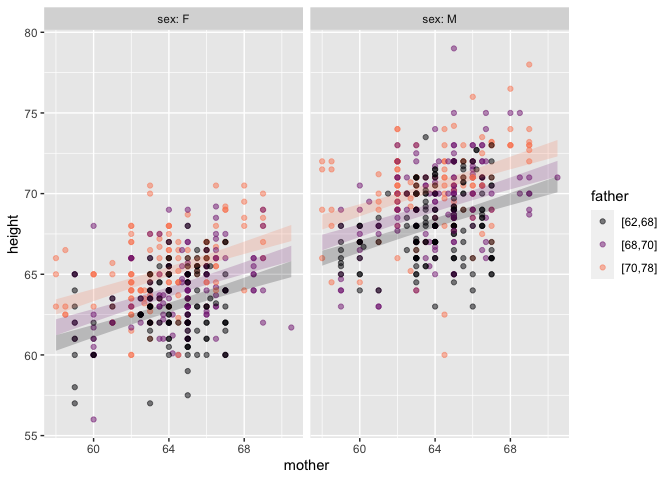
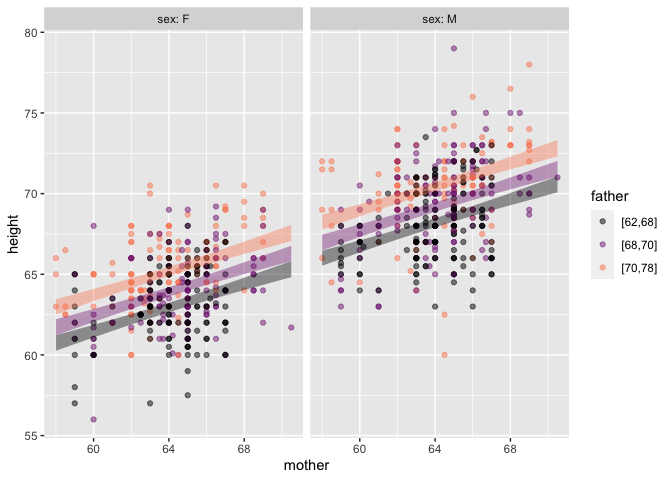
1. Fixed pointplot bug in showing model for y ~ 1
2. Revised README.Rmd to feature simple examples as suggested by Nick.

Changed region(s): [[0.4688, 0.2812, 0.8438, 0.5625], [0.0625, 0.4688, 0.4375, 0.7188]]

diff --git a/README.md b/README.md
@@ -71,46 +71,114 @@ Vignettes provide an instructor-level tutorial introduction to `{LST}`.
 The student-facing introduction is the *Lessons in Statistical Thinking*
 textbook.
 
-## Quick introduction
+## Statistics for data science
+
+Every instructor of introductory statistics is familiar with textbooks
+that devote separate chapters to each of a half-dozen basic tests:
+means, differences in means, proportions, differences in proportions,
+and simple regression. It’s been known for a century that these topics
+invoke the same statistical concepts. Moreover, they are merely
+precursors to the essential multivariable modeling techniques used in
+mainstream data-science tasks such as dealing with confounding.
+
+To illustrate how `{LST}` supports teaching such topics in a unified and
+streamlined way, consider to datasets provided by the `{mosaicData}`
+package: `Galton`, which contains the original data used by Francis
+Galton in the 1880s to study the heritability of genetic traits,
+specifically, human height; and `Whickham` results from a 20-year
+follow-up survey to study smoking and health.
+
+Start by installing `{LST}` as described above, then loading it into the
+R session:
 
 ``` r
 library(LST)
 ```
 
-From the start of the course, students make data graphics designed to
-support modeling. The `pointplot()` function provides access to powerful
-graphics intended to develop statistical reasoning abilities but is very
-easy to use. For instance, using Francis Galton’s data from the 1880s,
-let’s look at a (fully-grown) child’s height as a function of his or her
-parents height. (This example moves faster than we do with students!)
-Relationships are clear when the data are annotated with a model.
+In the examples that follow, we will use the `{LST}` function
+`pointplot()` which handles both numerical and categorical variables
+using one syntax. Here’s a graphic for looking at the difference between
+two means.
 
 ``` r
-mosaicData::Galton |>
-  pointplot(height ~ mother + father + sex, annot = "model")
+Galton |> pointplot(height ~ sex)
 ```
 
-<img src="man/figures/README-README6cfsz6-1.png" width="100%" />
+<img src="man/figures/README-unnamed-chunk-3-1.png" width="100%" />
+
+Point plots can be easily annotated with models. To illustrate the
+difference between the two means, add a model annotation:
+
+``` r
+Galton |> pointplot(height ~ sex, annot = "model")
+```
+
+<img src="man/figures/README-unnamed-chunk-5-1.png" width="100%" />
+
+Other `pointplot()` annotations are `violin` and `bw`.
+
+In *Lessons*, models are always graphed in the context of the underlying
+data and shown as confidence intervals.
+
+The same graphics and modeling conventions apply to categorical
+variables:
+
+``` r
+Whickham |> pointplot(outcome ~ smoker, annot = "model")
+```
+
+<img src="man/figures/README-unnamed-chunk-7-1.png" width="100%" />
+
+Simple regression works in the same way:
+
+``` r
+Galton |> pointplot(height ~ mother, annot = "model")
+```
+
+<img src="man/figures/README-unnamed-chunk-8-1.png" width="100%" />
+
+``` r
+Whickham |> pointplot(outcome ~ age, annot = "model")
+```
+
+<img src="man/figures/README-unnamed-chunk-8-2.png" width="100%" />
+
+The syntax extends naturally to handle the inclusion of covariates. For
+example, the simple calculation of difference between two proportions is
+misleading; `age`, not smoking status, plays the primary role in
+explaning mortality.
+
+``` r
+Whickham |> pointplot(outcome ~ age + smoker, annot = "model")
+```
+
+<img src="man/figures/README-unnamed-chunk-9-1.png" width="100%" />
+
+NOTE: To highlight statistical inference, we have been working with an
+n=200 sub-sample of Galton:
+
+``` r
+Galton <- Galton |> sample(n=100, .by = sex)
+```
 
 Quantitative modeling has the same syntax, but rather than rely on the
 default R reports for models, `{LST}` offers concise summaries.
 
 ``` r
-mosaicData::Galton |> 
-  model_train(height ~ mother + father + sex) |>
-  conf_interval()
-#> # A tibble: 4 × 4
-#>   term         .lwr  .coef   .upr
-#>   <chr>       <dbl>  <dbl>  <dbl>
-#> 1 (Intercept) 9.95  15.3   20.7  
-#> 2 mother      0.260  0.321  0.383
-#> 3 father      0.349  0.406  0.463
-#> 4 sexM        4.94   5.23   5.51
+Whickham |> model_train(outcome ~ age + smoker) |> conf_interval()
+#> Waiting for profiling to be done...
+#> # A tibble: 3 × 4
+#>   term          .lwr  .coef   .upr
+#>   <chr>        <dbl>  <dbl>  <dbl>
+#> 1 (Intercept) -8.50  -7.60  -6.77 
+#> 2 age          0.110  0.124  0.138
+#> 3 smokerYes   -0.124  0.205  0.537
 ```
 
-To develop an appreciation of the importance of covariates, we can turn
-to data-generating simulations where we know the rules behind the data
-and can check whether modeling reveals them faithfully.
+To help students develop an deeper appreciation of the importance of
+covariates, we can turn to data-generating simulations where we know the
+rules behind the data and can check whether modeling reveals them
+faithfully.
 
 ``` r
 print(sim_08)
@@ -122,7 +190,7 @@ print(sim_08)
 dag_draw(sim_08)
 ```
 
-<img src="man/figures/README-unnamed-chunk-2-1.png" width="100%" />
+<img src="man/figures/README-unnamed-chunk-11-1.png" width="100%" />
 
 From the rules, we can see that `y` increases directly with `x`, the
 coefficient being 1. A simple model gets this wrong:
@@ -135,8 +203,8 @@ sim_08 |>
 #> # A tibble: 2 × 4
 #>   term         .lwr .coef  .upr
 #>   <chr>       <dbl> <dbl> <dbl>
-#> 1 (Intercept)  2.74  2.98  3.22
-#> 2 x            1.30  1.45  1.60
+#> 1 (Intercept)  2.75  3.01  3.27
+#> 2 x            1.14  1.32  1.51
 ```
 
 I’ll leave it as an exercise to the reader to see what happens when `c`
@@ -149,28 +217,32 @@ function of the sample size `n` and averaging over 100 trials.
 
 ``` r
 sim_08 |> 
-  sample(n = n) |>
+  sample(n = sample_size) |>
   model_train(y ~ x) |>
   conf_interval() |>
-  trials(times = 2, n = c(100, 400, 1600)) |> 
+  trials(times = 2, sample_size = c(100, 400, 1600, 6400, 25600)) |> 
   filter(term == "x") |> 
   mutate(width = .upr - .lwr)
-#>   .trial    n term     .lwr    .coef     .upr      width
-#> 1      1  100    x 1.521538 1.717093 1.912649 0.39111092
-#> 2      2  100    x 1.234374 1.417474 1.600574 0.36620068
-#> 3      1  400    x 1.390188 1.478836 1.567485 0.17729708
-#> 4      2  400    x 1.519035 1.603670 1.688305 0.16926959
-#> 5      1 1600    x 1.430024 1.472944 1.515865 0.08584056
-#> 6      2 1600    x 1.436323 1.478510 1.520697 0.08437371
+#>    .trial sample_size term     .lwr    .coef     .upr      width
+#> 1       1         100    x 1.372233 1.560350 1.748467 0.37623423
+#> 2       2         100    x 1.332790 1.490733 1.648677 0.31588668
+#> 3       1         400    x 1.421812 1.505607 1.589403 0.16759077
+#> 4       2         400    x 1.499239 1.580337 1.661436 0.16219628
+#> 5       1        1600    x 1.424356 1.466122 1.507888 0.08353176
+#> 6       2        1600    x 1.436348 1.477919 1.519491 0.08314316
+#> 7       1        6400    x 1.474246 1.494887 1.515529 0.04128310
+#> 8       2        6400    x 1.487190 1.508327 1.529465 0.04227480
+#> 9       1       25600    x 1.495289 1.505822 1.516355 0.02106636
+#> 10      2       25600    x 1.498624 1.509280 1.519937 0.02131267
 ```
 
 I’ve used only two trials to show the output of `trials()`, but increase
 it to, say, `times = 100` and finish off the wrangling with the
-`{dplyr}` function `summarize(mean(width), .by = n)`.
+`{dplyr}` function `summarize(mean(width), .by = sample_size)`.
 
-    #>       n mean(width)
-    #> 1   100  0.35343367
-    #> 2   400  0.17076383
-    #> 3  1600  0.08503046
-    #> 4  6400  0.04251642
-    #> 5 25600  0.02119462
+    #>   sample_size mean(width)
+    #> 1         100  0.34800368
+    #> 2         400  0.17059320
+    #> 3        1600  0.08483481
+    #> 4        6400  0.04251015
+    #> 5       25600  0.02123563
